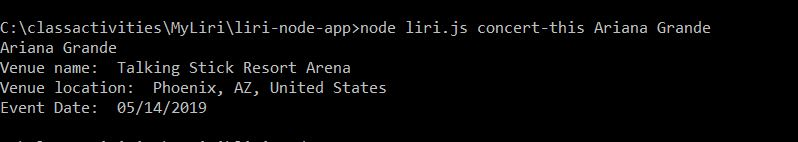
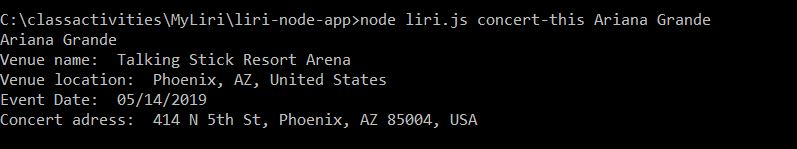
add screen shot to the demo

diff --git a/liri.js b/liri.js
@@ -4,6 +4,18 @@ var Spotify = require('node-spotify-api');
 var createTable = require('console.table');
 var request = require('request');
 var moment = require('moment');
+var NodeGeocoder = require('node-geocoder');
+ 
+var options = {
+  provider: 'google',
+ 
+  // Optional depending on the providers
+  httpAdapter: 'https', // Default
+  apiKey: process.env.GOOGLE_ADDRESS, // for Mapquest, OpenCage, Google Premier
+  formatter: null         // 'gpx', 'string', ...
+};
+ 
+var geocoder = NodeGeocoder(options)
 
 
 
@@ -24,13 +36,16 @@ if (process.argv[2] == 'concert-this' ) {
 
     request(queryURL, function (error, response, body) {
         if (error) console.log(error);
-        var result  =  JSON.parse(body)[0];        
+        var result  =  JSON.parse(body)[0]; 
+        //console.log(result);       
         console.log("Venue name:  " + result.venue.name);
+        geocoder.reverse({lat:result.venue.latitude, lon:result.venue.longitude}, function(err, res) {
+            console.log("Concert adress:  " + res[0].formattedAddress);
+          });
         console.log("Venue location:  " + result.venue.city+ ", " + result.venue.region+ ", "+ result.venue.country);
         console.log("Event Date:  " +  moment(result.datetime).format("MM/DD/YYYY"));
        
-
-
+        
     });
   
 } else if ( process.argv[2] == 'spotify-this-song') {
